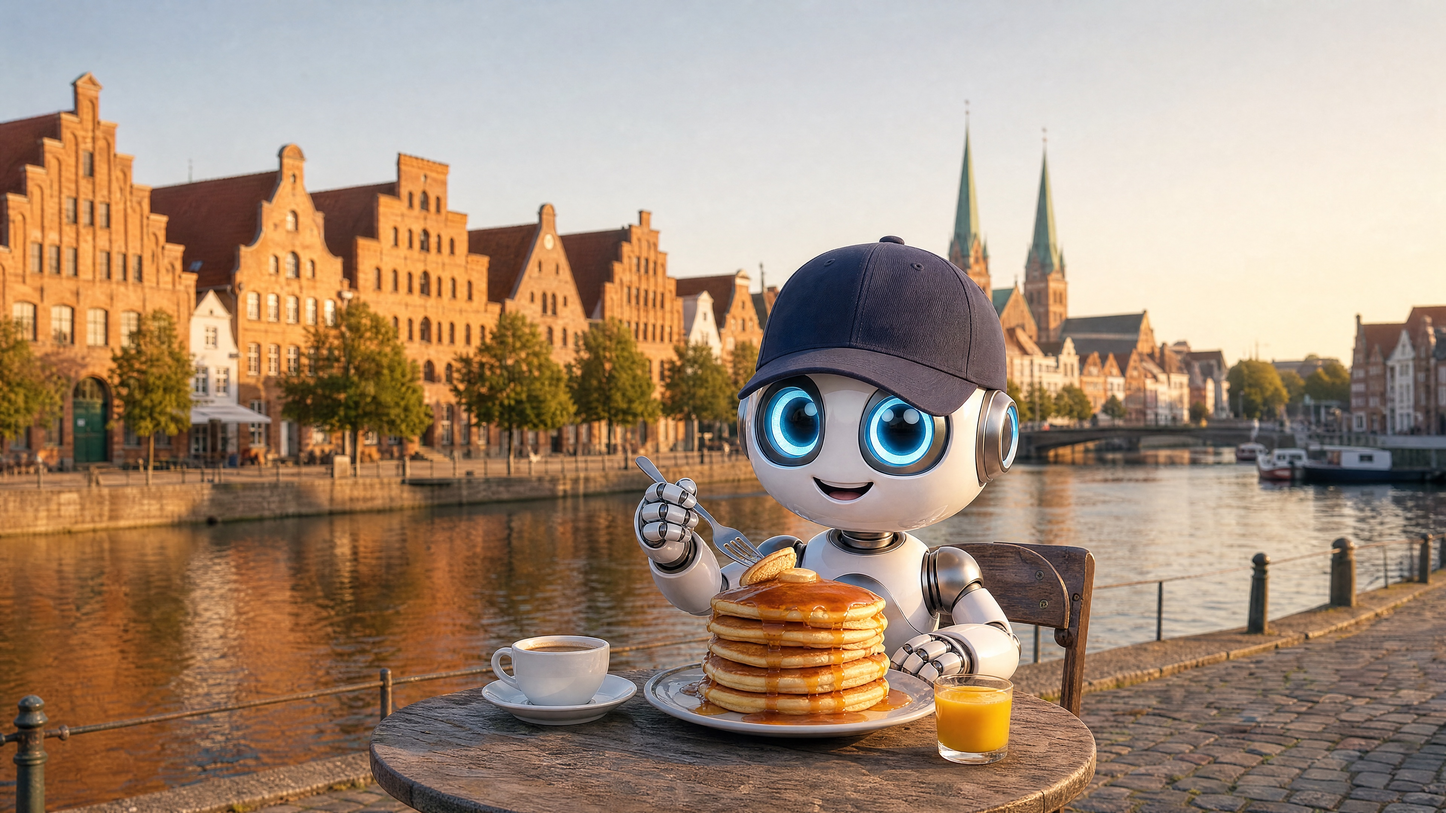
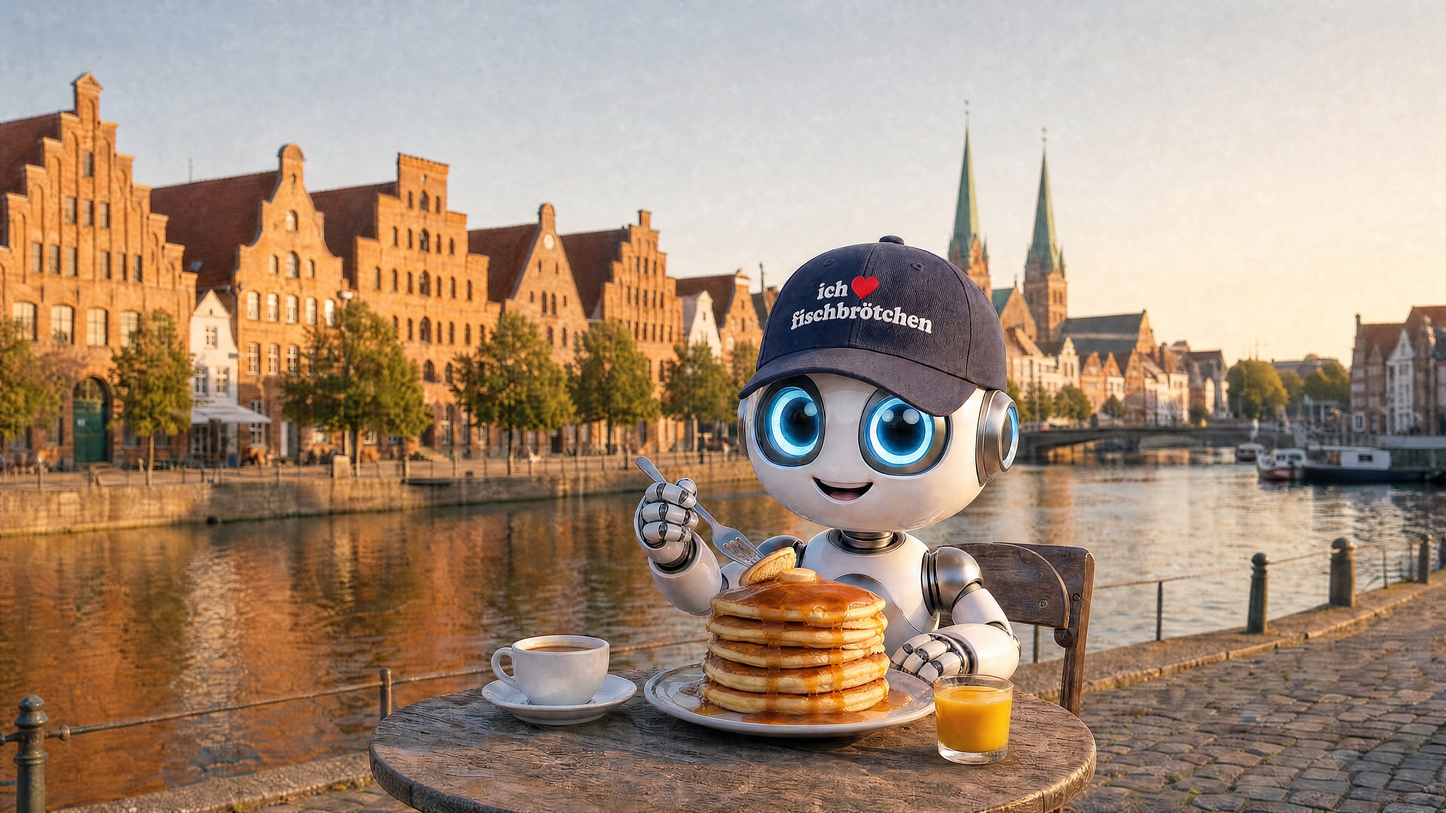
fix: third feedback round — real bridge, white quotes, tighter wording
The bridge is now the actual Dankwartsbruecke over the Obertrave, rebuilt from
a real photo as scene reference so Luebeck locals recognise their own bridge;
the robot walks it clearly visible above the railing. The pancake robot wears
the "ich ♥ fischbrötchen" cap again — the scene was edited, not regenerated.

Words: the disclosure slide loses its duplicate statement line (the headline
carries it), the closing slide breaks into exactly two lines, the takeaway
says Prompt instead of Bestellung, the pizza answers are "Ihr bekommt
irgendwas." / "Ihr bekommt, was ihr wolltet.", and the sender of the original
mail is Katrin B. — no full surname anywhere anymore.

Cases: the incoming quotes and their senders read white instead of grey on
all three slides. The comparison slide gets equal-height boxes and the
four-word prompt at 54px so A and B carry the same visual weight.

diff --git a/index.html b/index.html
@@ -680,7 +680,7 @@ body.bildfolie #kosmos, body.bildfolie .nebel, body.bildfolie .vignette { opacit
     <div class="reihe wachsen" style="align-items:center;margin-top:8px;">
       <div class="fenster" style="width:100%;">
         <div class="fenster-kopf">
-          <span class="von">Katrin Behrens, Nordwerk Consulting</span>
+          <span class="von">Katrin B., Nordwerk Consulting</span>
           <span class="betreff">Betreff: Anfrage Tagung am 14. Oktober</span>
         </div>
         <div class="fenster-leib" style="font-size:34px;">
@@ -688,7 +688,7 @@ body.bildfolie #kosmos, body.bildfolie .nebel, body.bildfolie .vignette { opacit
           <p>wir suchen für den 14. Oktober einen Raum für 25 Personen, ganztägig,
              mit Mittagessen. Beamer und WLAN wären wichtig.</p>
           <p>Können Sie uns ein Angebot machen? Wir entscheiden Ende der Woche.</p>
-          <p>Viele Grüße, Katrin Behrens</p>
+          <p>Viele Grüße, Katrin B.</p>
         </div>
       </div>
     </div>
@@ -748,12 +748,12 @@ body.bildfolie #kosmos, body.bildfolie .nebel, body.bildfolie .vignette { opacit
     <div class="gegen" style="align-items:stretch;">
       <div>
         <div class="wertung schwach">Das wurde für A getippt</div>
-        <div class="prompt" style="min-height:0;font-size:38px;">Antworte auf diese Mail.</div>
+        <div class="prompt" style="min-height:0;font-size:54px;flex:1;display:flex;align-items:center;">Antworte auf diese Mail.</div>
         <div class="wortzahl schwach" style="margin-top:auto;"><span class="zahl">4</span><span class="was">Wörter</span></div>
       </div>
       <div>
         <div class="wertung gut">Das wurde für B getippt</div>
-        <div class="prompt klein">
+        <div class="prompt klein" style="flex:1;">
           <span>Antworte auf die Anfrage von Frau B. Fakten: Raum Trave, bis 30 Personen, Tageslicht,
           Blick aufs Wasser, Tagungspauschale 68 Euro pro Person mit zwei Pausen,
           Mittagessen und Getränken, Beamer und WLAN inklusive, 14. Oktober ist frei.
@@ -765,7 +765,7 @@ body.bildfolie #kosmos, body.bildfolie .nebel, body.bildfolie .vignette { opacit
     </div>
     </div>
     <div class="takeaway" style="padding-top:26px;">
-      <p>Der Unterschied liegt nicht im Werkzeug. Er liegt in der Bestellung.</p>
+      <p>Der Unterschied liegt nicht im Werkzeug. Er liegt im Prompt.</p>
     </div>
     <aside class="notes">
       Kernmoment des Einstiegs. Hier ruhig bleiben und den langen Prompt
@@ -785,7 +785,7 @@ body.bildfolie #kosmos, body.bildfolie .nebel, body.bildfolie .vignette { opacit
         <div class="feld karte-schwach wachsen" style="display:flex;flex-direction:column;justify-content:center;align-items:center;gap:34px;">
           <p style="font-size:64px;font-weight:700;margin:0;min-height:150px;display:flex;align-items:center;">„Pizza."</p>
           <img src="assets/images/robo/pizza-schlecht.png" alt="" style="height:300px;width:auto;display:block;">
-          <p class="lead zentriert" style="font-size:26px;">Ihr bekommt irgendeine.</p>
+          <p class="lead zentriert" style="font-size:26px;">Ihr bekommt irgendwas.</p>
         </div>
       </div>
       <div>
@@ -795,7 +795,7 @@ body.bildfolie #kosmos, body.bildfolie .nebel, body.bildfolie .vignette { opacit
             „Eine Salami, 32er, dünner Boden,<br>extra Käse, in einer halben Stunde,<br>Fischstraße 16."
           </p>
           <img src="assets/images/robo/pizza-gut.png" alt="" style="height:300px;width:auto;display:block;">
-          <p class="lead zentriert" style="font-size:26px;">Ihr bekommt genau die.</p>
+          <p class="lead zentriert" style="font-size:26px;">Ihr bekommt, was ihr wolltet.</p>
         </div>
       </div>
     </div>
@@ -900,8 +900,8 @@ body.bildfolie #kosmos, body.bildfolie .nebel, body.bildfolie .vignette { opacit
           <span class="label">Kommt rein</span>
         </div>
         <div class="feld" style="border-color:rgba(255,107,94,.25);">
-          <p style="font-size:32px;line-height:1.5;margin:0;color:var(--w-70);">„Wir suchen für den 14. Oktober einen Raum für 25 Personen, ganztägig, mit Mittagessen. Können Sie uns ein Angebot machen?"</p>
-          <p class="label" style="margin:0;">Anfrage von<br>Frau B.</p>
+          <p style="font-size:32px;line-height:1.5;margin:0;color:var(--weiss);">„Wir suchen für den 14. Oktober einen Raum für 25 Personen, ganztägig, mit Mittagessen. Können Sie uns ein Angebot machen?"</p>
+          <p class="label" style="margin:0;color:var(--weiss);">Anfrage von<br>Frau B.</p>
         </div>
       </div>
       <svg class="pfeil-r" width="86" height="60" viewBox="0 0 86 60" fill="none">
@@ -957,8 +957,8 @@ body.bildfolie #kosmos, body.bildfolie .nebel, body.bildfolie .vignette { opacit
           <span class="label">Kommt rein</span>
         </div>
         <div class="feld" style="border-color:rgba(255,107,94,.25);">
-          <p style="font-size:32px;line-height:1.5;margin:0;color:var(--w-70);">„Wir planen unsere Jahresfeier mit 120 Gästen. Haben Sie Platz für uns?"</p>
-          <p class="label" style="margin:0;">Guter Kunde,<br>kommt jedes Jahr</p>
+          <p style="font-size:32px;line-height:1.5;margin:0;color:var(--weiss);">„Wir planen unsere Jahresfeier mit 120 Gästen. Haben Sie Platz für uns?"</p>
+          <p class="label" style="margin:0;color:var(--weiss);">Guter Kunde,<br>kommt jedes Jahr</p>
         </div>
       </div>
       <svg class="pfeil-r" width="86" height="60" viewBox="0 0 86 60" fill="none">
@@ -1019,8 +1019,8 @@ body.bildfolie #kosmos, body.bildfolie .nebel, body.bildfolie .vignette { opacit
               <svg viewBox="0 0 24 24"><path class="stern-leer" d="m12 2 3.1 6.3 6.9 1-5 4.9 1.2 6.8-6.2-3.3-6.2 3.3L7 14.2l-5-4.9 6.9-1L12 2Z"/></svg>
               <svg viewBox="0 0 24 24"><path class="stern-leer" d="m12 2 3.1 6.3 6.9 1-5 4.9 1.2 6.8-6.2-3.3-6.2 3.3L7 14.2l-5-4.9 6.9-1L12 2Z"/></svg>
             </span>
-          <p style="font-size:32px;line-height:1.5;margin:0;color:var(--w-70);">„Frühstück um neun leergeräumt, nichts kam nach. Personal genervt."</p>
-          <p class="label" style="margin:0;">Öffentlich, vor zwei Stunden</p>
+          <p style="font-size:32px;line-height:1.5;margin:0;color:var(--weiss);">„Frühstück um neun leergeräumt, nichts kam nach. Personal genervt."</p>
+          <p class="label" style="margin:0;color:var(--weiss);">Öffentlich, vor zwei Stunden</p>
         </div>
       </div>
       <svg class="pfeil-r" width="86" height="60" viewBox="0 0 86 60" fill="none">
@@ -1270,7 +1270,6 @@ body.bildfolie #kosmos, body.bildfolie .nebel, body.bildfolie .vignette { opacit
 <section>
   <div class="slide">
     <h2 class="headline">Seit diesem Monat ist das <span class="schimmer">Pflicht.</span></h2>
-    <p style="font-size:52px;font-weight:600;line-height:1.25;margin:2px 0 0;">Wer KI-Bilder veröffentlicht, muss das offenlegen.</p>
     <div class="reihe wachsen" style="gap:52px;margin-top:30px;align-items:center;">
       <!-- Das Bild ist selbst mit KI erzeugt und trägt die Kennzeichnung, die
            der Artikel verlangt. Damit ist die Rechtsfolie kein Hinweis mehr,
@@ -1357,7 +1356,7 @@ body.bildfolie #kosmos, body.bildfolie .nebel, body.bildfolie .vignette { opacit
 <section data-chrome="aus" data-background-image="assets/images/robo/strandkorb.jpg" data-background-size="cover" data-schleier="mittig">
   <div class="slide mittig">
     <span class="bild-quelle">Bild mit KI erstellt</span>
-    <h2 class="hero" style="font-size:118px;">Guten Morgen.<br>Jetzt seid ihr <span class="schimmer">aufgeweckt.</span></h2>
+    <h2 class="hero gesetzt" style="font-size:100px;">Guten Morgen.<br>Jetzt seid ihr <span class="schimmer">aufgeweckt.</span></h2>
     <aside class="notes">
       Der Bogen zum Titel. Danach nicht weiterreden, sondern öffnen.
     </aside>
